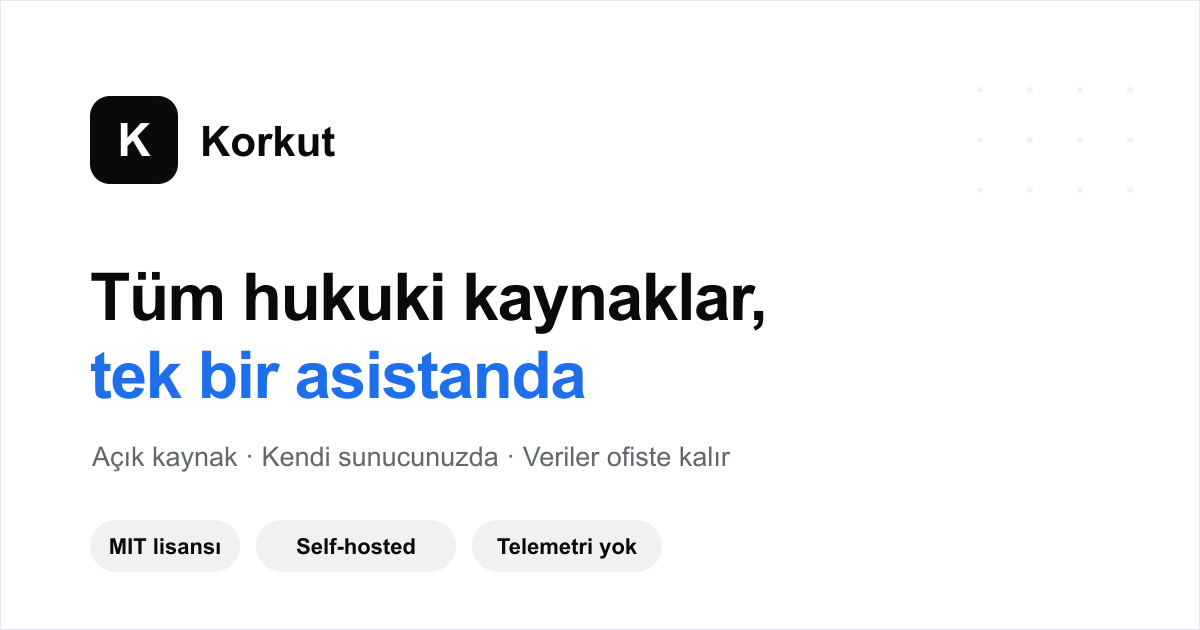
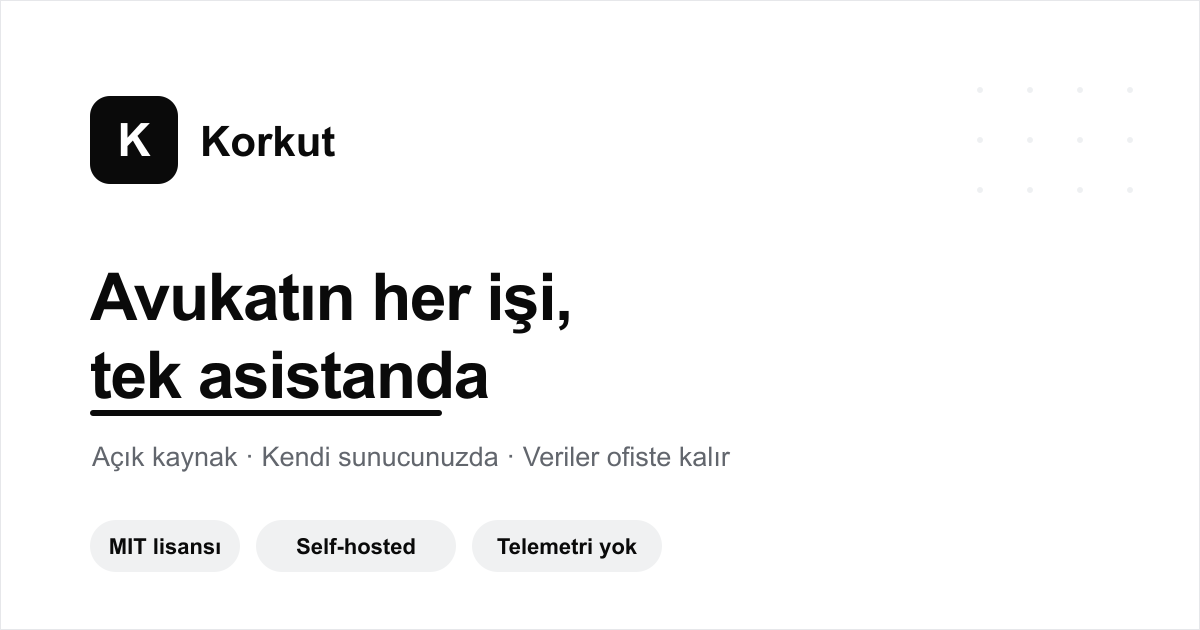
Reword hero motto around 'Avukat' and refresh SEO/OG
- Hero: 'Avukatın her işi, tek asistanda'; broaden the lead to office work
- SEO: title/description now lead with 'Avukatlar için'
- OG image: new motto, drop leftover blue, all black/white

Changed region(s): [[0.0617, 0.4222, 0.6475, 0.6635]]

diff --git a/landing/src/consts.ts b/landing/src/consts.ts
@@ -4,9 +4,9 @@
 export const SITE = {
   url: "https://korkut.dev",
   name: "Korkut",
-  title: "Korkut — Hukuk büronuz için açık kaynak yapay zeka asistanı",
+  title: "Korkut — Avukatlar için açık kaynak yapay zeka asistanı",
   description:
-    "Korkut; içtihat ve mevzuat araştırması yapar, dilekçe taslakları hazırlar ve büronun yazışmalarını yürütür. Kendi sunucunuzda çalışır, veriler ofiste kalır. MIT lisanslı, açık kaynak.",
+    "Avukatlar ve hukuk büroları için Korkut; içtihat ve mevzuat araştırır, dilekçe yazar, dosya, duruşma ve bütçeyi takip eder, yazışmaları yürütür. Kendi sunucunuzda çalışır, veriler ofiste kalır. MIT lisanslı, açık kaynak.",
   locale: "tr_TR",
   lang: "tr",
   author: "Recep Kızılarslan",
